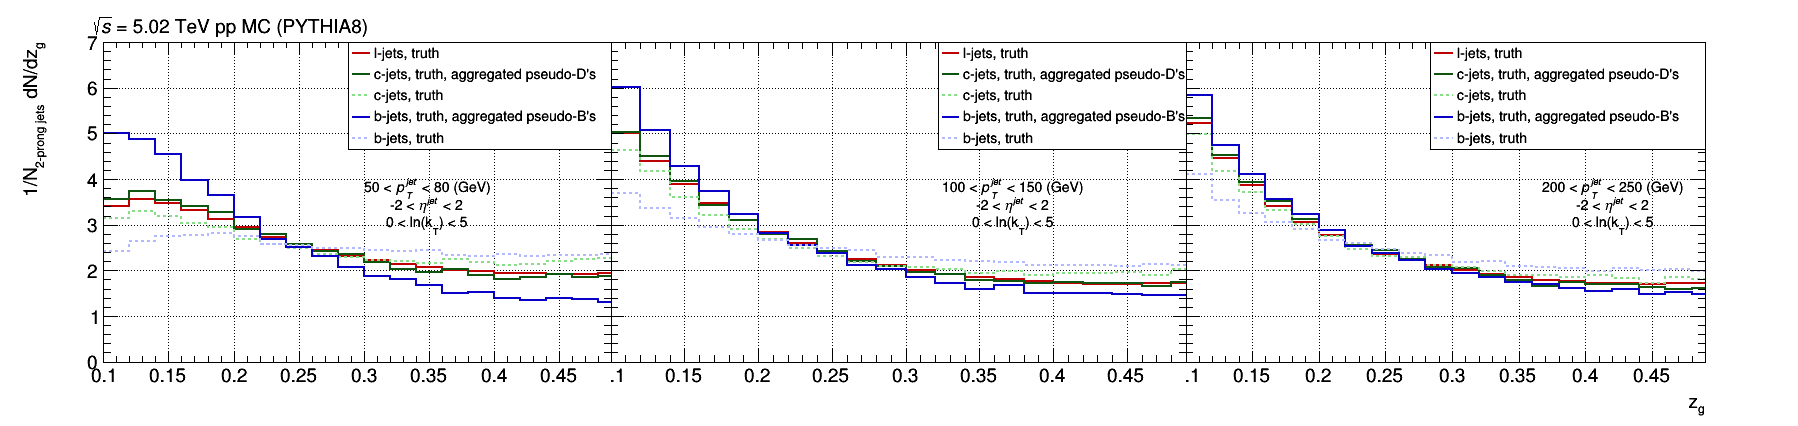
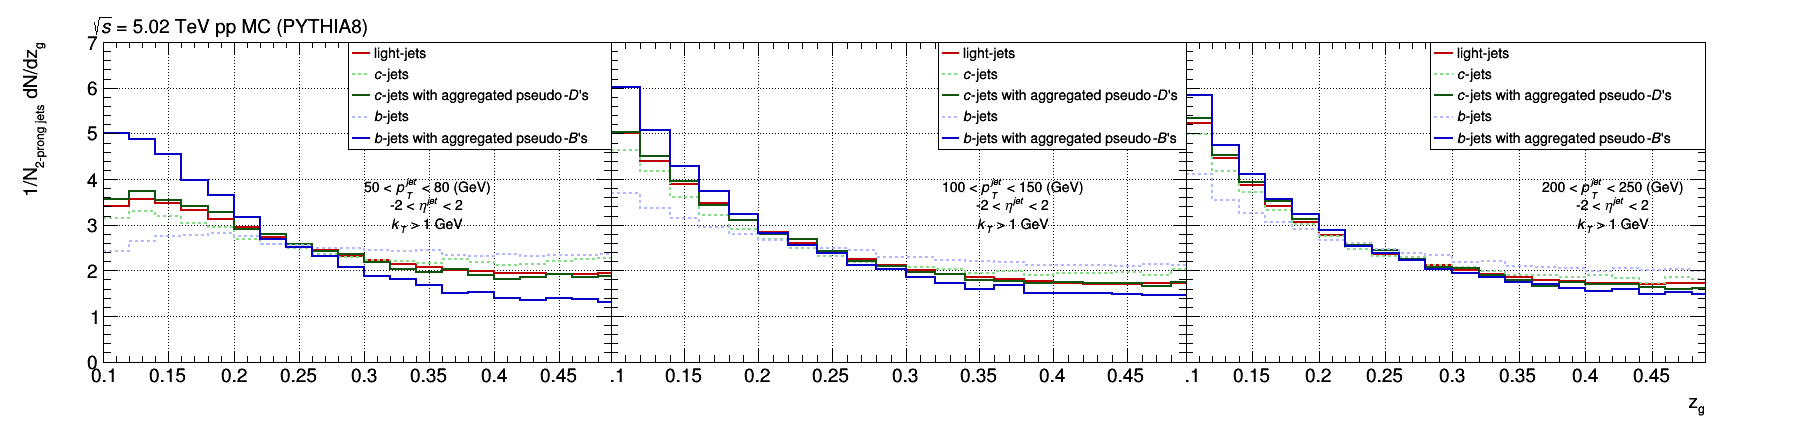
update appearence of plots

diff --git a/myMacros/pt2dscan/projections1d/draw_projections1d.C b/myMacros/pt2dscan/projections1d/draw_projections1d.C
@@ -109,7 +109,7 @@ void draw_projections1d(std::string var = "zg", bool GSPincl = false)
             xmax = 0.49;
         }
         if ((ktmin >= 0) && (var == "rg")) {
-            xmax = 3.45;
+            xmax = 3.99;
         }
         hs->GetXaxis()->SetLimits(xmin, xmax);
         hs->GetYaxis()->SetTitleOffset(1.5);
@@ -129,7 +129,8 @@ void draw_projections1d(std::string var = "zg", bool GSPincl = false)
         info->SetTextSize(15);
         info->AddText(Form("%.0f < #it{p_{T}^{jet}} < %0.f (GeV)", ptmin, ptmax));
         info->AddText("-2 < #it{#eta^{jet}} < 2");
-        info->AddText(Form("%.0f < ln(k_{T}) < %.0f", ktmin, ktmax));
+        //info->AddText(Form("%.0f < ln(k_{T}) < %.0f", ktmin, ktmax));
+        info->AddText(Form("#it{k_{T}} > %.0f GeV", exp(ktmin)));
         info->Draw();
     } // end loop over pt ranges
     
